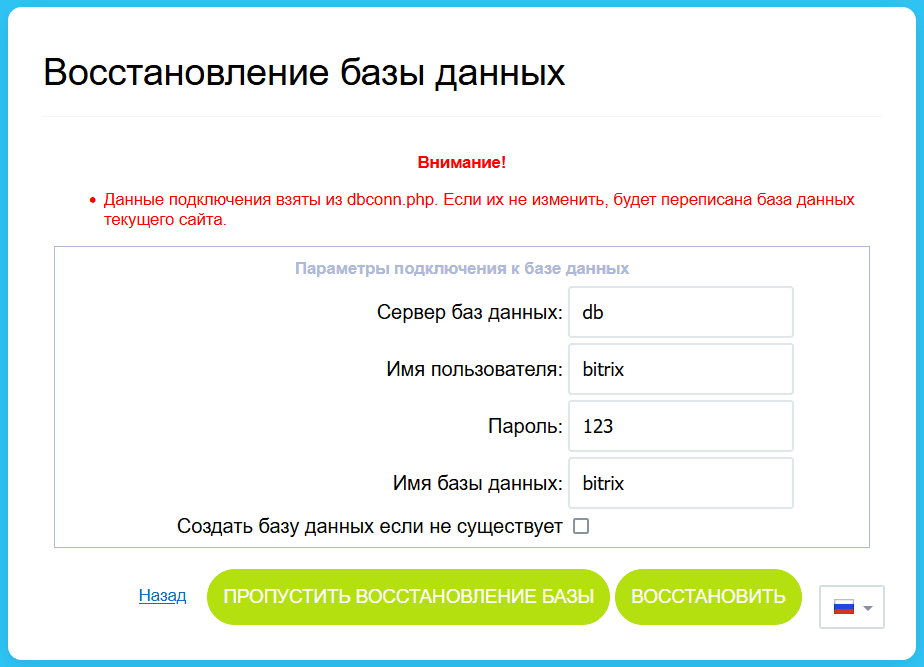
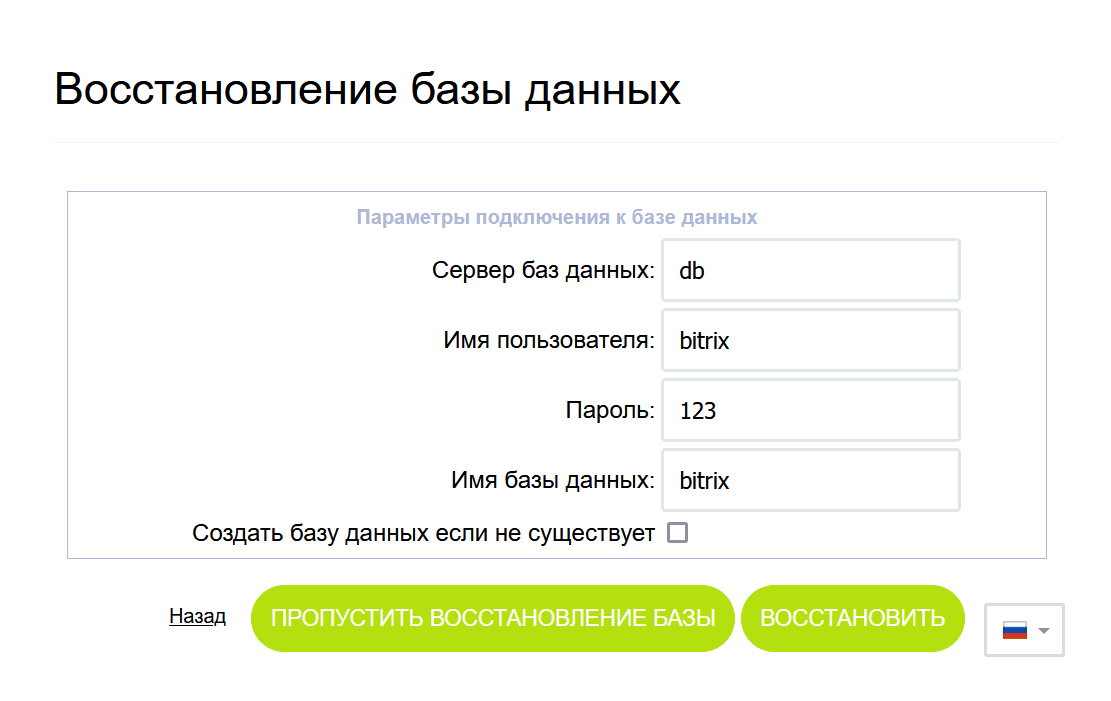
Небольшие правки (#234)

diff --git a/configs/.settings.php b/configs/.settings.php
@@ -1,68 +1,71 @@
 <?php
 
 return [
-    'utf_mode' =>
-        [
-            'value' => true,
-            'readonly' => true,
+    'utf_mode' => [
+        'value' => true,
+        'readonly' => true,
+    ],
+    'cache_flags' => [
+        'value' => [
+            'config_options' => 3600,
+            'site_domain' => 3600,
         ],
-    'cache_flags' =>
-        [
-            'value' =>
-                [
-                    'config_options' => 3600,
-                    'site_domain' => 3600,
+        'readonly' => false,
+    ],
+    'session' => [
+        'value' => [
+            'mode' => 'default',
+            'handlers' => [
+                'general' => [
+                    'type' => 'memcache',
+                    'keyPrefix' => '#01',
+                    'port' => 11211,
+                    'host' => 'memcached',
                 ],
-            'readonly' => false,
+            ],
         ],
+    ],
     'cache' => [
         'value' => [
             'type' => 'memcache',
             'sid' => 'master',
             'memcache' => [
                 'host' => 'memcached',
-                'port' => '11211'
+                'port' => '11211',
             ],
         ],
         'readonly' => true,
     ],
-    'cookies' =>
-        [
-            'value' =>
-                [
-                    'secure' => false,
-                    'http_only' => true,
-                ],
-            'readonly' => false,
+    'cookies' => [
+        'value' => [
+            'secure' => false,
+            'http_only' => true,
         ],
-    'exception_handling' =>
-        [
-            'value' =>
-                [
-                    'debug' => true,
-                    'handled_errors_types' => 4437,
-                    'exception_errors_types' => 4437,
-                    'ignore_silence' => false,
-                    'assertion_throws_exception' => true,
-                    'assertion_error_type' => 256,
-                    'log' => null,
-                ],
-            'readonly' => false,
+        'readonly' => false,
+    ],
+    'exception_handling' => [
+        'value' => [
+            'debug' => true,
+            'handled_errors_types' => 4437,
+            'exception_errors_types' => 4437,
+            'ignore_silence' => false,
+            'assertion_throws_exception' => true,
+            'assertion_error_type' => 256,
+            'log' => null,
         ],
-    'connections' =>
-        [
-            'value' =>
-                [
-                    'default' =>
-                        [
-                            'className' => '\\Bitrix\\Main\\DB\\MysqliConnection',
-                            'host' => 'db',
-                            'database' => 'bitrix',
-                            'login' => 'root',
-                            'password' => '123',
-                            'options' => 2,
-                        ],
-                ],
-            'readonly' => true,
+        'readonly' => false,
+    ],
+    'connections' => [
+        'value' => [
+            'default' => [
+                'className' => '\\Bitrix\\Main\\DB\\MysqliConnection',
+                'host' => 'db',
+                'database' => 'bitrix',
+                'login' => 'bitrix',
+                'password' => '123',
+                'options' => 2.0,
+            ],
         ],
+        'readonly' => true,
+    ],
 ];
